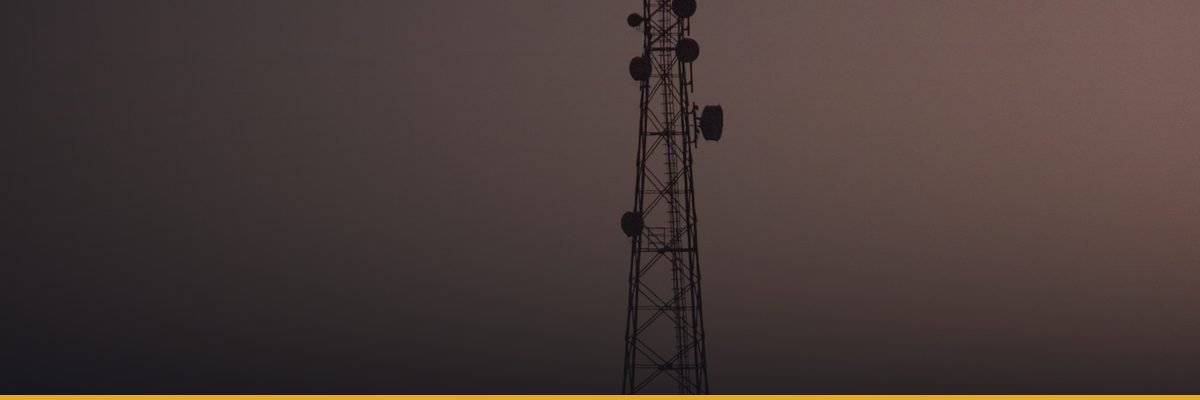
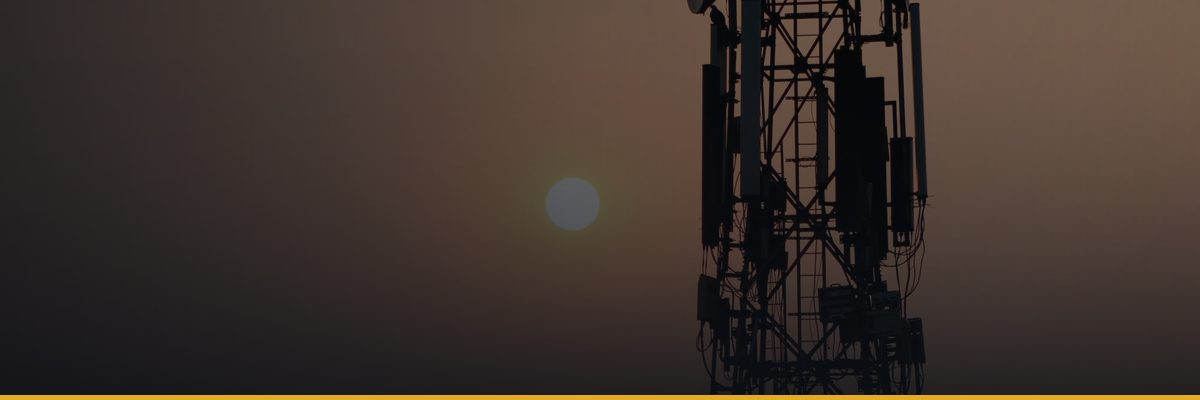
Swap telecom case study photo for a landscape-friendly shot
The previous tall-tower image left too much empty sky in the wide
banner. Replaced with a sunset antenna-array silhouette (Pexels) that
fills the 1200x400 frame; same navy overlay + gold accent treatment.

Changed region(s): [[0.4317, 0.0, 0.7708, 0.99]]

diff --git a/scripts/process_casestudy_photos.py b/scripts/process_casestudy_photos.py
@@ -16,7 +16,7 @@ NAVY = (13, 16, 22)
 GOLD = (228, 171, 37)
 
 # crop focus: vertical position 0=top,0.5=center,1=bottom for the cropped window
-FOCUS = {"telecom": 0.35, "utilities": 0.5, "healthcare": 0.5, "property": 0.45}
+FOCUS = {"telecom": 0.45, "utilities": 0.5, "healthcare": 0.5, "property": 0.45}
 
 
 def cover_crop(img, focus_y):